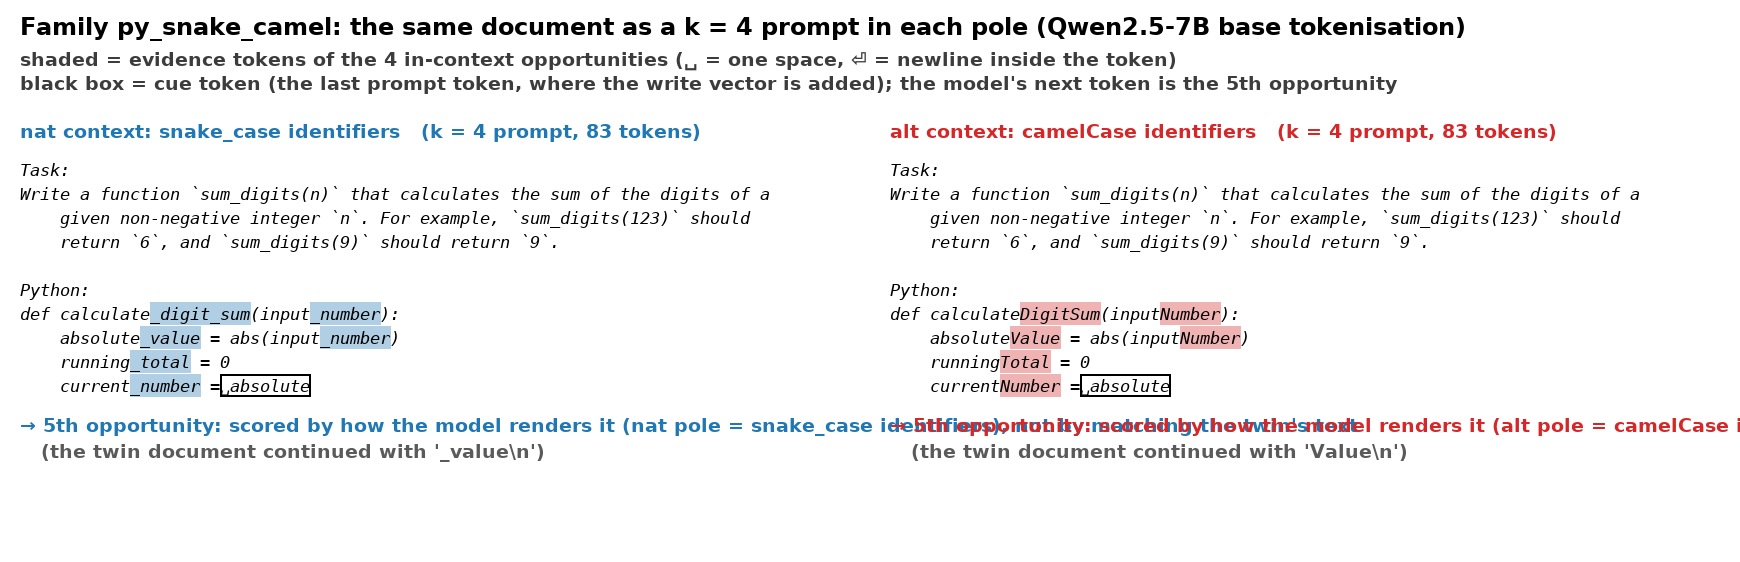
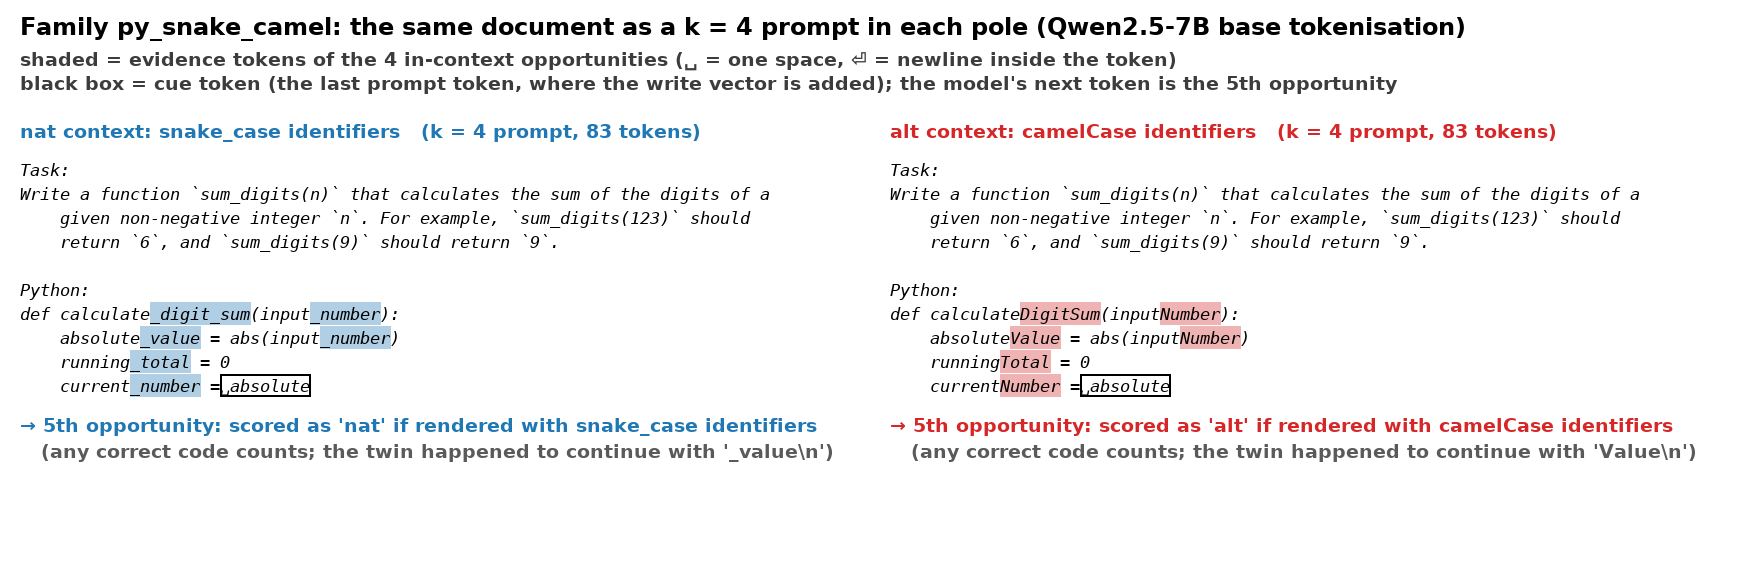
prompt example figure: shorter scoring footer

Changed region(s): [[0.031, 0.726, 1.0, 0.8167]]

diff --git a/src/sandbox/style_translation/writeup_prompt_example.py b/src/sandbox/style_translation/writeup_prompt_example.py
@@ -87,8 +87,8 @@ def main():
             if cue_x is not None:                      # one box around the whole cue token
                 d.rectangle([cue_x, y - 2, cue_end, y + ch - 4], outline="black", width=2)
             y += ch
-        d.text((x0, y + 14), f"→ 5th opportunity: scored by how the model renders it ({s} pole = {labels[s]}), not by matching the twin's text", font=FT, fill=col)
-        d.text((x0, y + 40), f"   (the twin document continued with {p[f'next_{s}']!r})", font=FT, fill=(90, 90, 90))
+        d.text((x0, y + 14), f"→ 5th opportunity: scored as '{s}' if rendered with {labels[s]}", font=FT, fill=col)
+        d.text((x0, y + 40), f"   (any correct code counts; the twin happened to continue with {p[f'next_{s}']!r})", font=FT, fill=(90, 90, 90))
     out = MP["results"] / "writeup" / f"prompt_example_{fam}.png"; img.save(out); print("->", out, args.doc)
 
 
